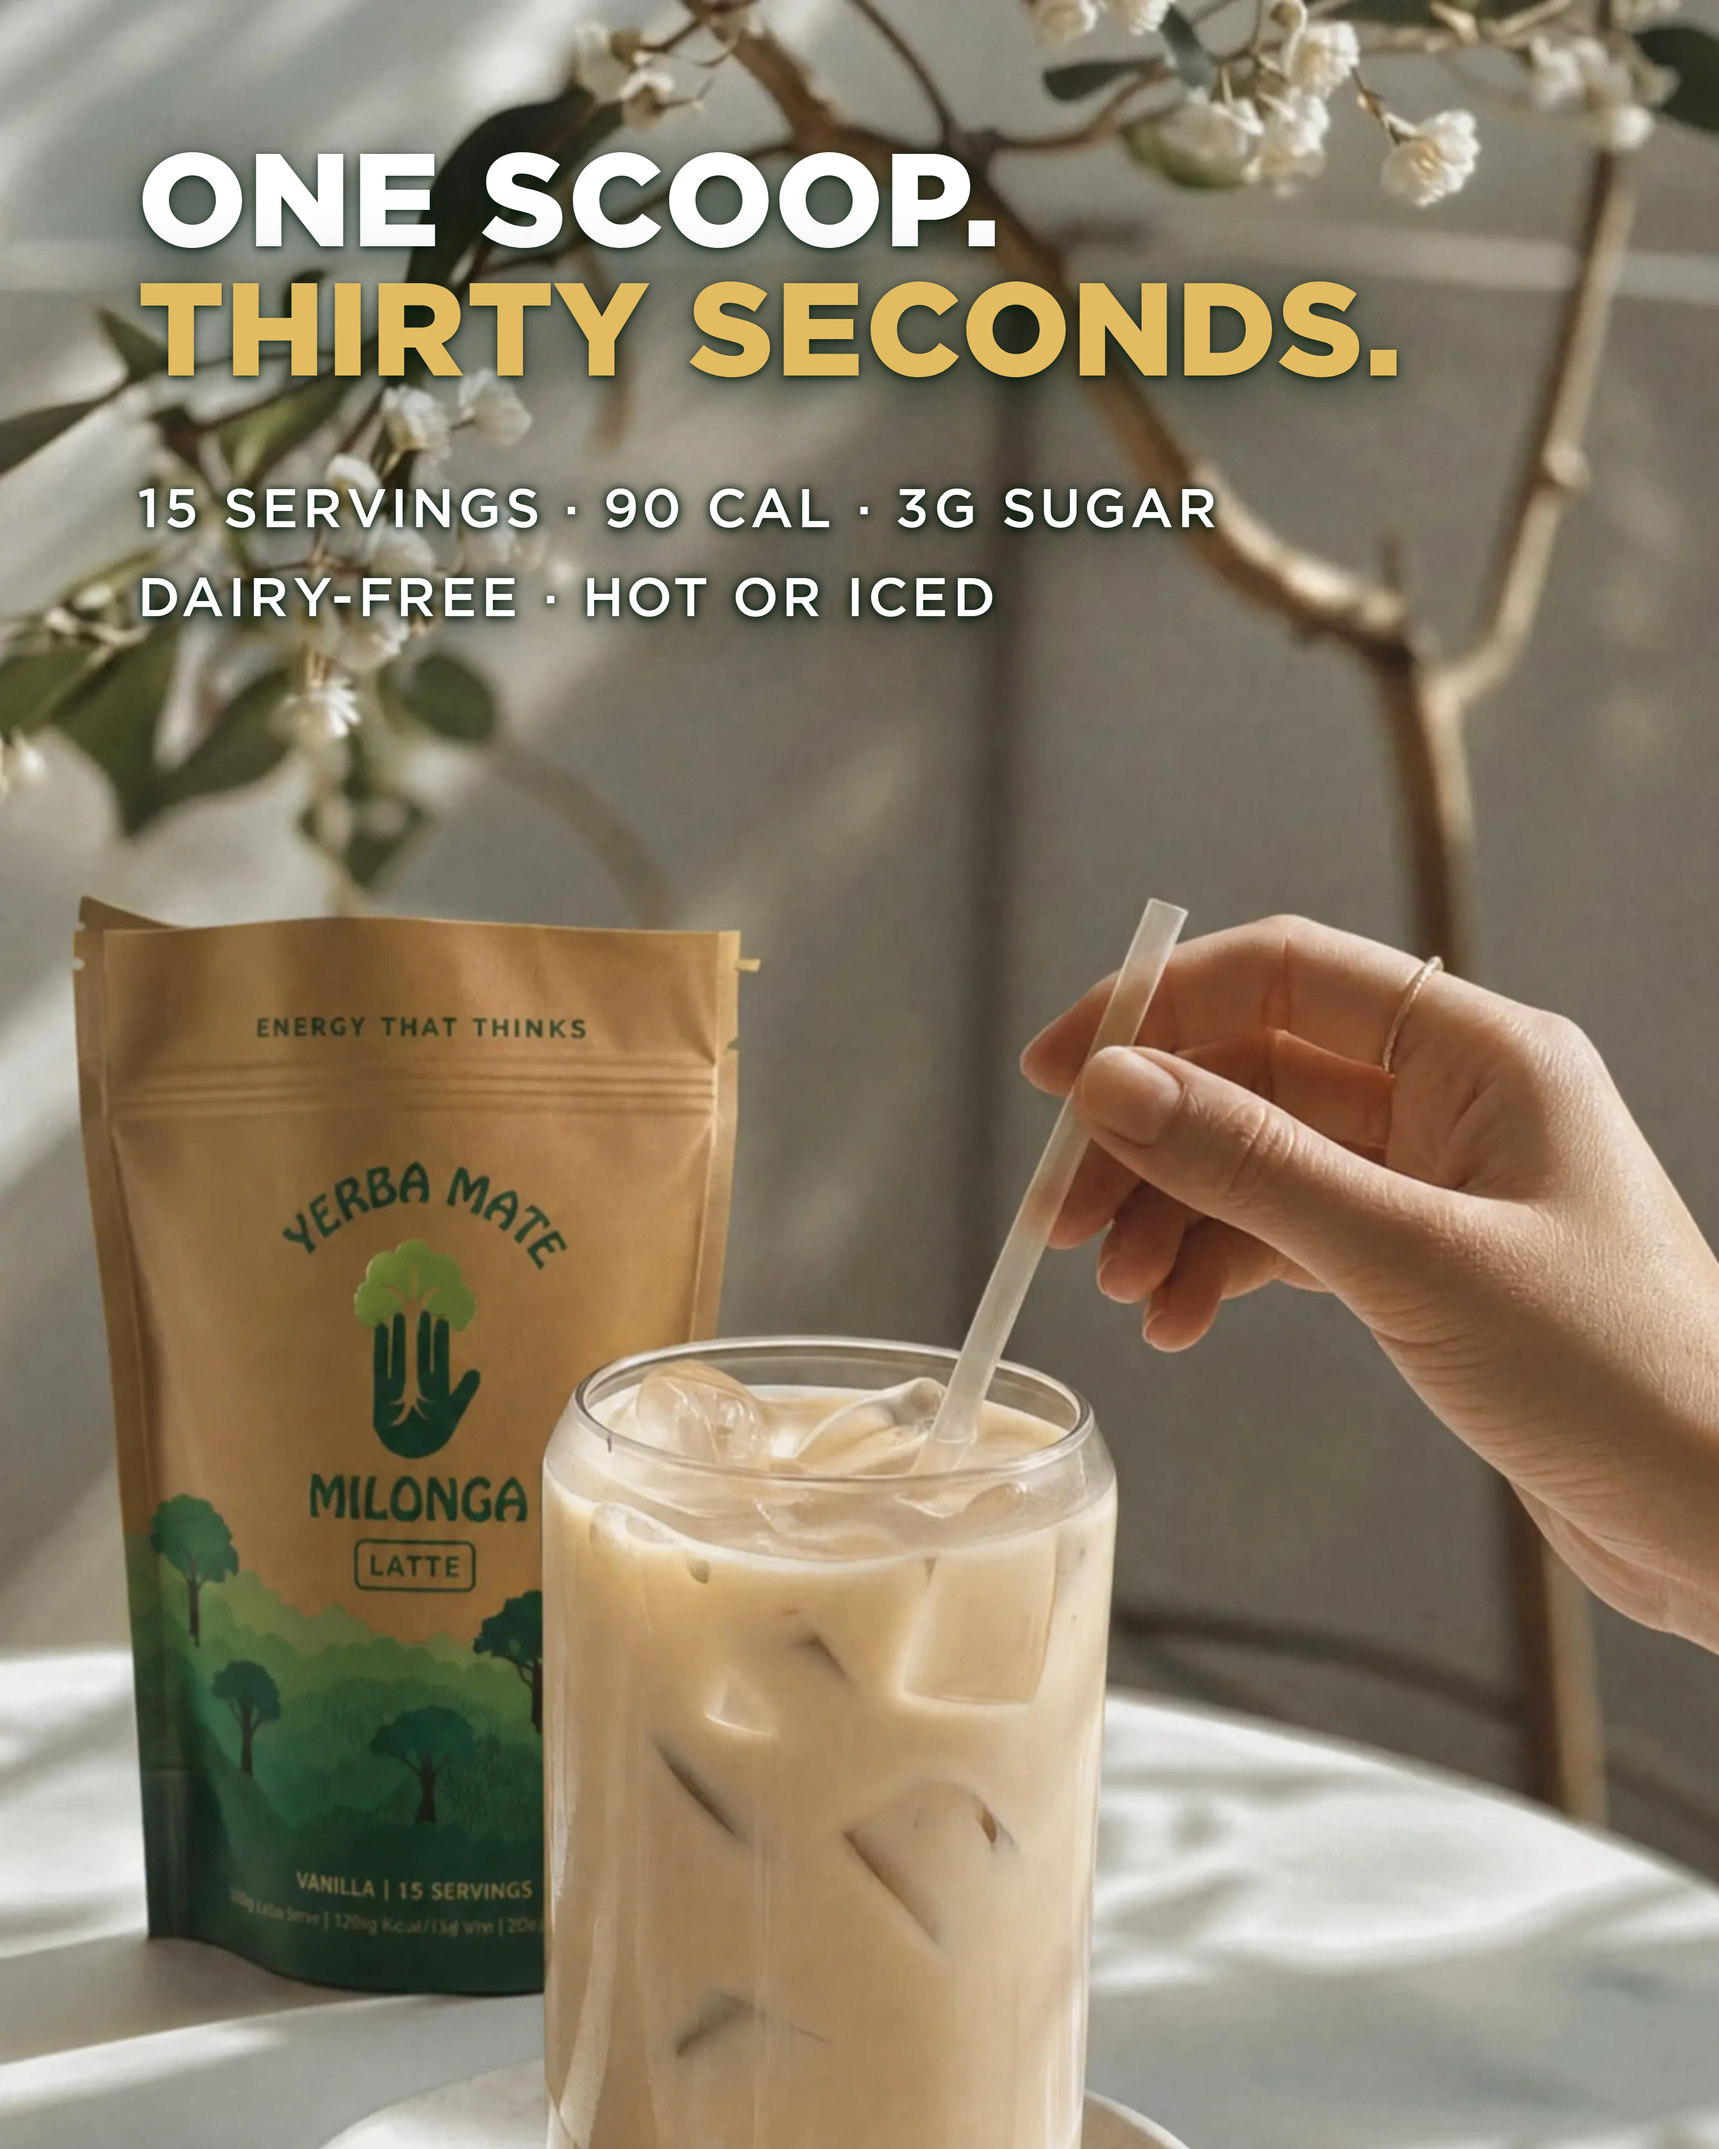
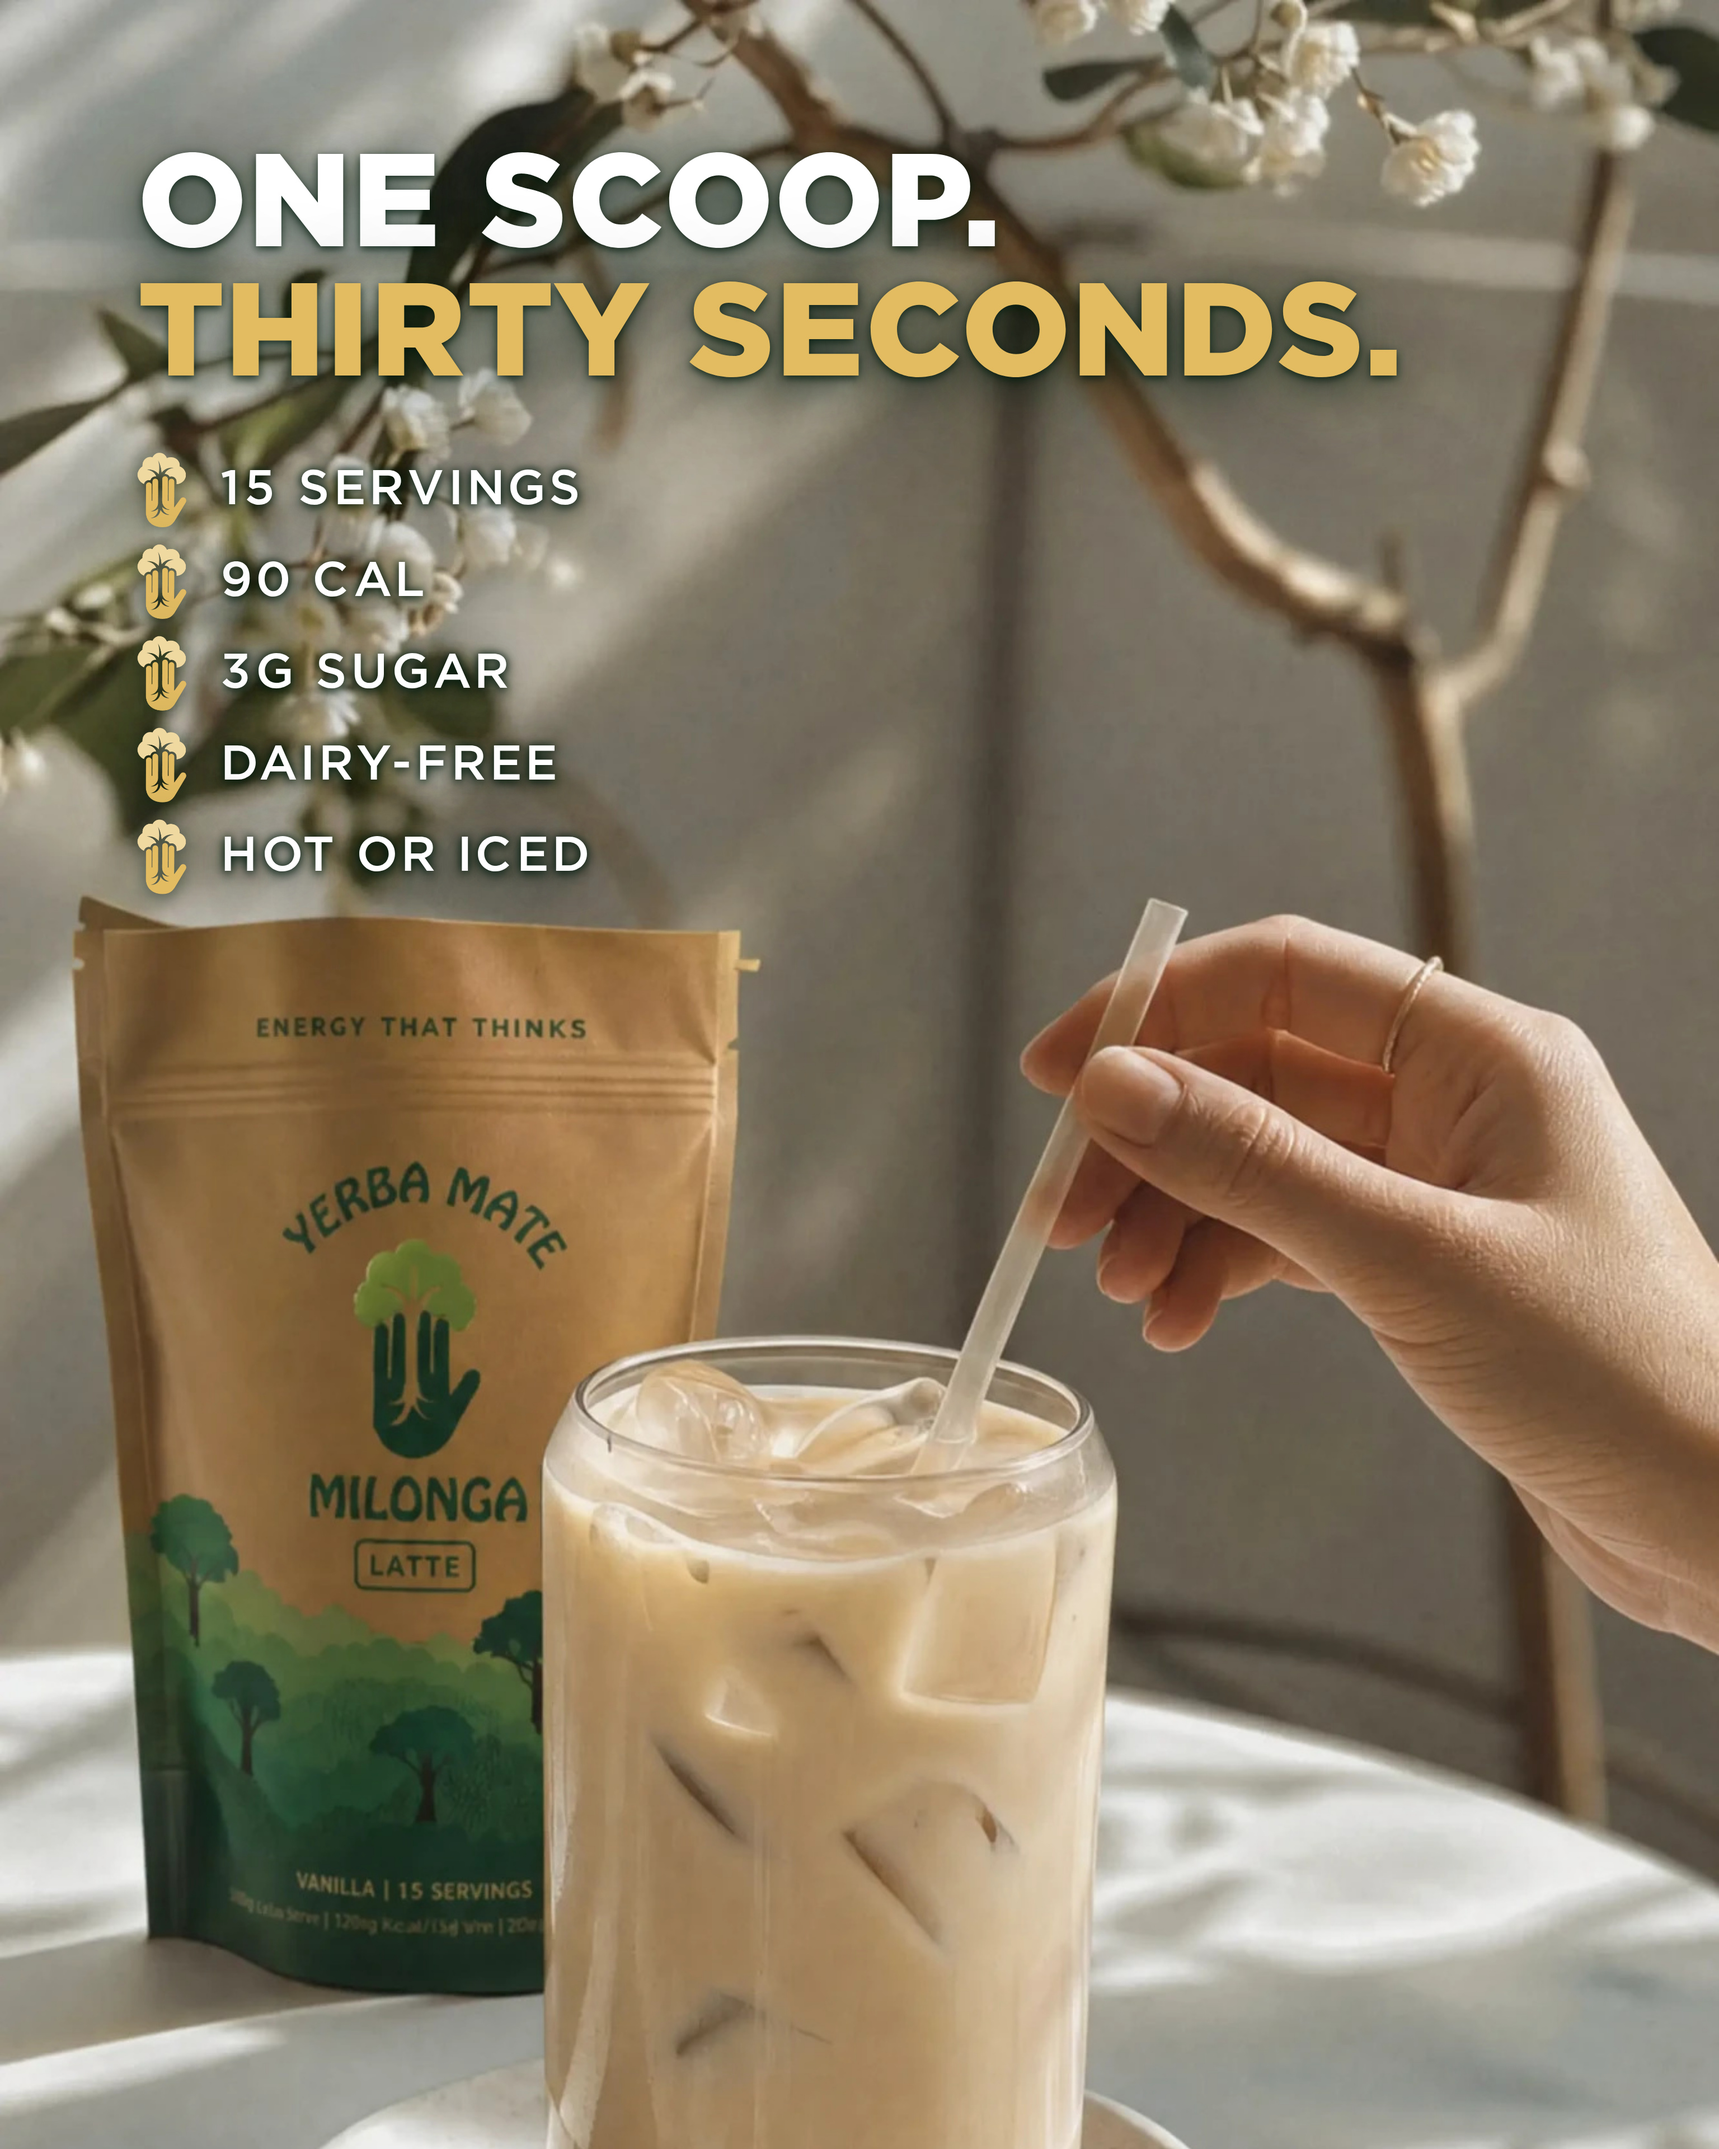
carousel: three-ingredients slide 5, the specs become a bulleted list
Five facts, one per line, each led by the gold Milonga hand — the same mark
the site bullets with.

The band is fixed, which sets everything else: the title ends at 133 of the
750 design units and the pouch begins at 311, so there are 178 to spend. Five
rows of 26 plus their gaps is 154, which lands the list 6 clear of the pouch,
and that is why the type drops 19 -> 17. The list is longer than the two
rows it replaces, so each line has to be smaller.

The mark runs at 26 rather than the 21 that would match the type: it is a
hand in front of a canopy, and below about 25 units the canopy closes up and
it reads as a gold smudge. It also carries its own drop-shadow — artwork, not
type, so the halo behind the letters never reaches it, and a flat gold
silhouette dissolves on this wall.

Claude-Session: https://claude.ai/code/session_01NhEtXPnfeCJfN73SqBkUZ5

Changed region(s): [[0.0625, 0.2188, 0.7188, 0.4375]]

diff --git a/email-ds/emails/carousel/three-ingredients.jsx b/email-ds/emails/carousel/three-ingredients.jsx
@@ -108,13 +108,34 @@ function CarouselThreeIngredients() {
         align: 'top', padX: 48, padY: 50 },
       h(M.SlideTitle, { line1: 'One scoop.', line2: 'Thirty seconds.',
         size: 46, lead: 0.98, color: '#FFFFFF', color2: '#E3BC62', halo: 'hold' }),
-      h('div', { style: { marginTop: 24 } },
-        ['15 servings · 90 cal · 3g sugar', 'Dairy-free · Hot or iced'].map((t, i) =>
-          h('div', { key: i,
-            style: { fontFamily: 'Gotham, Montserrat, sans-serif', fontWeight: 500,
-              fontSize: 19, letterSpacing: '0.07em', textTransform: 'uppercase',
-              lineHeight: 1.6, color: '#FFFFFF',
-              textShadow: '0 0 3px rgba(0,26,13,0.9), 0 1px 4px rgba(0,26,13,0.85), 0 3px 14px rgba(0,26,13,0.7), 0 8px 30px rgba(0,26,13,0.5)' } }, t)),
+      // THE SPEC LIST, BULLETED WITH THE MARK. Five facts, one per line, each
+      // led by the gold Milonga hand — the same bullet the site uses.
+      //
+      // The band it has to live in is fixed: the title ends at 133 of the 750
+      // design units and the pouch begins at 311, so there are 178 to spend.
+      // Five rows of 26 plus their gaps is 154, which leaves the list ending
+      // 6 units clear of the pouch. That is what sets the type at 17 rather
+      // than the 19 the two-line version ran at — the list is longer, so each
+      // line is smaller.
+      //
+      // The mark carries its own drop-shadow. It is artwork, not type, so the
+      // halo behind the letters never reaches it, and on this wall a flat gold
+      // silhouette would dissolve.
+      h('div', { style: { marginTop: 18 } },
+        ['15 servings', '90 cal', '3g sugar', 'Dairy-free', 'Hot or iced'].map((t, i) =>
+          h('div', { key: i, style: { display: 'flex', alignItems: 'center', gap: 12, marginBottom: 6 } },
+            // 26 rather than the 21 that matches the type. The mark is a hand
+            // in front of a canopy, and below about 25 units the canopy closes
+            // up and it reads as a gold smudge; the row gaps pay for it.
+            h('img', { src: '../public/logo/mark-gold.png', alt: '',
+              style: { height: 26, width: 'auto', flex: 'none', display: 'block',
+                       filter: 'drop-shadow(0 1px 3px rgba(0,26,13,0.55)) drop-shadow(0 3px 12px rgba(0,26,13,0.4))' } }),
+            h('span', {
+              style: { fontFamily: 'Gotham, Montserrat, sans-serif', fontWeight: 500,
+                fontSize: 17, letterSpacing: '0.08em', textTransform: 'uppercase',
+                lineHeight: 1.2, color: '#FFFFFF',
+                textShadow: '0 0 3px rgba(0,26,13,0.9), 0 1px 4px rgba(0,26,13,0.85), 0 3px 14px rgba(0,26,13,0.7), 0 8px 30px rgba(0,26,13,0.5)' } }, t),
+          )),
       ),
     ),
   );
